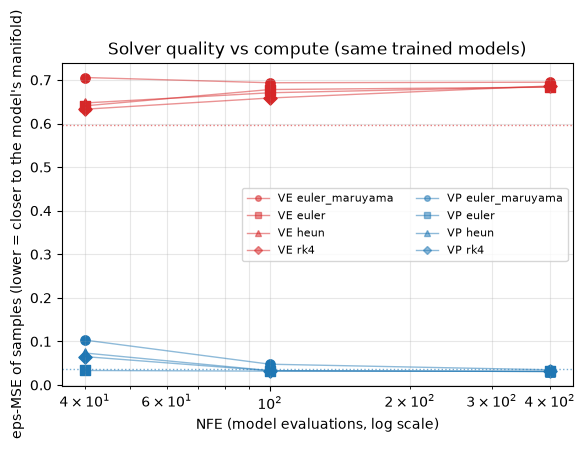
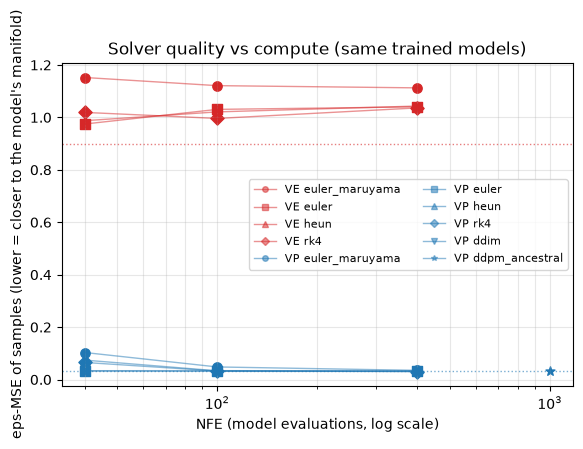
Lesson 02: DDIM sampler + DDPM/DDIM vs continuous solvers comparison
- sample_ddim (eta=0 default) in mnist_ve_vp.py: the discrete PF-ODE
  jump over a subsampled tau grid. First version had the prev-index
  off by direction (jumped toward *more* noise); fixed after tracing
  |x| along the chain.
- compare_solvers.py: adds ddpm_ancestral (full T=1000, one run) and
  ddim (steps = NFE budget) as VP-only methods, and prefers the
  long-trained VE checkpoint.
- Headline numbers (GPU): DDPM 1000 NFE = 16.3s, DDIM 40 = 0.64s with
  equal eps-MSE (0.032 vs 0.034) — the 25x DDIM speedup, and DDIM
  matches Euler-on-PF-ODE as theory says. VE honestly needs ~1400 NFE
  (its Euler+Langevin sampler), documented in README.

diff --git a/lessons/02-score-matching/lab/scripts/compare_solvers.py b/lessons/02-score-matching/lab/scripts/compare_solvers.py
@@ -22,7 +22,9 @@ from __future__ import annotations
 
 import csv
 import sys
+import time as _time
 from pathlib import Path
+from types import SimpleNamespace
 
 import matplotlib
 
@@ -40,6 +42,8 @@ from score_lab.mnist_ve_vp import (
     MNIST_STD,
     VESchedule,
     VPSchedule,
+    sample_ddim,
+    sample_vp,
     save_sample_grid,
 )
 from score_lab.sde import ContinuousVE, ContinuousVP
@@ -47,6 +51,9 @@ from score_lab.solvers import euler_maruyama, nfe_to_grid, ode_solver
 
 SDE_METHODS = ["euler_maruyama"]
 ODE_METHODS = ["euler", "heun", "rk4"]
+# Discrete lesson-01 samplers, for the wall-clock comparison with the
+# continuous solvers. Both only make sense on the VP schedule.
+DISCRETE_VP_METHODS = ["ddim", "ddpm_ancestral"]
 
 
 def _unnormalize(x: torch.Tensor) -> torch.Tensor:
@@ -111,15 +118,21 @@ def main() -> None:
     }
     models = {}
     for name in branches:
+        # prefer the long-trained VE checkpoint if the ve-vp run produced one
+        ckpt = f"model_{name}_long.pt" if name == "ve" and \
+            (ve_vp_dir / "model_ve_long.pt").exists() else f"model_{name}.pt"
         m = build_mnist_unet(cfg).to(device).eval()
-        m.load_state_dict(torch.load(ve_vp_dir / f"model_{name}.pt",
-                                     map_location=device, weights_only=True))
+        m.load_state_dict(torch.load(ve_vp_dir / ckpt, map_location=device,
+                                     weights_only=True))
+        print(f"  {name}: checkpoint {ckpt}")
         models[name] = m
 
     n = int(section.n_samples)
     seed = int(section.seed)
     budgets = [int(b) for b in section.nfe_budgets]
-    methods = SDE_METHODS + ODE_METHODS if bool(section.include_rk4) else SDE_METHODS + ["euler", "heun"]
+    solver_methods = ODE_METHODS if bool(section.include_rk4) else ["euler", "heun"]
+    methods = {"ve": SDE_METHODS + solver_methods,
+               "vp": SDE_METHODS + solver_methods + DISCRETE_VP_METHODS}
 
     # warm up CUDA kernels so the first timed run is not an outlier
     dummy = branches["ve"].prior_sample((2, 1, 28, 28), device=device)
@@ -148,13 +161,34 @@ def main() -> None:
         # same starting cloud for every method of this branch
         gen = torch.Generator(device=device).manual_seed(seed)
         x_start = branch.prior_sample((n, 1, 28, 28), generator=gen, device=device)
-        for method in methods:
-            for budget in budgets:
-                grid = nfe_to_grid(budget, "euler" if method == "euler_maruyama" else method,
-                                   torch.device(device))
+        for method in methods[branch_name]:
+            # ddpm_ancestral is a single full-T run; budgets don't apply
+            method_budgets = [None] if method == "ddpm_ancestral" else budgets
+            for budget in method_budgets:
+                if method in DISCRETE_VP_METHODS:
+                    grid = None
+                else:
+                    grid = nfe_to_grid(budget, "euler" if method == "euler_maruyama" else method,
+                                       torch.device(device))
                 gen_run = torch.Generator(device=device).manual_seed(seed + 1)
                 with torch.no_grad():
-                    if method == "euler_maruyama":
+                    if method == "ddim":
+                        t0 = _time.perf_counter()
+                        x = sample_ddim(model, vp_sched, (n, 1, 28, 28), n_steps=budget,
+                                        generator=gen_run, device=device)
+                        if device.startswith("cuda"):
+                            torch.cuda.synchronize()
+                        res = SimpleNamespace(x=x, nfe=budget,
+                                              seconds=_time.perf_counter() - t0)
+                    elif method == "ddpm_ancestral":
+                        t0 = _time.perf_counter()
+                        x = sample_vp(model, vp_sched, (n, 1, 28, 28),
+                                      generator=gen_run, device=device)
+                        if device.startswith("cuda"):
+                            torch.cuda.synchronize()
+                        res = SimpleNamespace(x=x, nfe=vp_sched.num_timesteps,
+                                              seconds=_time.perf_counter() - t0)
+                    elif method == "euler_maruyama":
                         drift = lambda x, t, b=branch, m=model: b.reverse_sde_drift(m, x, t)
                         res = euler_maruyama(drift, branch.diffusion, x_start.clone(),
                                              grid, generator=gen_run)
@@ -164,8 +198,9 @@ def main() -> None:
                 diverged = bool(torch.isnan(res.x).any() or torch.isinf(res.x).any())
                 if diverged:
                     res.x = torch.nan_to_num(res.x, nan=0.0, posinf=1.0, neginf=-1.0)
+                steps = 0 if method in ("ddim", "ddpm_ancestral") else len(grid) - 1
                 row = {
-                    "method": method, "branch": branch_name, "steps": len(grid) - 1,
+                    "method": method, "branch": branch_name, "steps": steps,
                     "nfe": res.nfe, "seconds": round(res.seconds, 4),
                     "sharpness": round(sharpness(res.x), 5),
                     "speckle": round(speckle(res.x), 5),
@@ -174,16 +209,17 @@ def main() -> None:
                 }
                 rows.append(row)
                 samples[(branch_name, method, budget)] = res.x
-                tag = f"{branch_name}_{method}_nfe{budget}"
+                tag = f"{branch_name}_{method}_nfe{res.nfe}"
                 save_sample_grid(res.x, out_dir / f"{tag}.png",
                                  f"{tag}  ({res.nfe} NFE, {res.seconds:.2f}s)")
                 print(f"  {tag}: nfe={res.nfe} t={res.seconds:.2f}s "
                       f"sharp={row['sharpness']} eps_mse={row['eps_mse']} div={row['diverged']}")
 
         # --- Montage: rows = methods, cols = NFE budgets (same start noise) ---
-        fig, axes = plt.subplots(len(methods), len(budgets),
-                                 figsize=(2.6 * len(budgets), 2.5 * len(methods)))
-        for r, method in enumerate(methods):
+        montage_methods = [m for m in methods[branch_name] if m != "ddpm_ancestral"]
+        fig, axes = plt.subplots(len(montage_methods), len(budgets),
+                                 figsize=(2.6 * len(budgets), 2.5 * len(montage_methods)))
+        for r, method in enumerate(montage_methods):
             for c, budget in enumerate(budgets):
                 ax = axes[r, c] if len(methods) > 1 else axes[c]
                 x = samples[(branch_name, method, budget)][:16].detach().cpu()
@@ -209,7 +245,8 @@ def main() -> None:
     # --- quality vs NFE -------------------------------------------------------
     fig, ax = plt.subplots(figsize=(6.6, 4.2))
     colors = {"ve": "#d62728", "vp": "#1f77b4"}
-    markers = {"euler_maruyama": "o", "euler": "s", "heun": "^", "rk4": "D"}
+    markers = {"euler_maruyama": "o", "euler": "s", "heun": "^", "rk4": "D",
+               "ddim": "v", "ddpm_ancestral": "*"}
     for row in rows:
         if row["diverged"] or row["method"] == "real_data":
             continue

diff --git a/lessons/02-score-matching/lab/src/score_lab/mnist_ve_vp.py b/lessons/02-score-matching/lab/src/score_lab/mnist_ve_vp.py
@@ -179,6 +179,39 @@ def sample_vp(
 
 
 @torch.no_grad()
+def sample_ddim(
+    model, schedule: VPSchedule, shape, n_steps: int = 100, eta: float = 0.0,
+    generator=None, device="cpu",
+) -> torch.Tensor:
+    """DDIM (η=0 default): the classical discrete form of the VP PF-ODE.
+
+    Subsamples ``n_steps`` timesteps from the schedule and jumps directly
+    between them: ``x_{τ₋₁} = √ᾱ_{τ₋₁}·(x_τ − √(1−ᾱ_τ)·ε̂)/√ᾱ_τ +
+    √(1−ᾱ_{τ₋₁})·ε̂`` (+ η-scaled noise for η > 0). With η = 0 the map is
+    deterministic — same role as the ODE solvers in ``solvers.py``, but
+    derived from the discrete posterior instead of integrating the ODE.
+    NFE = n_steps.
+    """
+    model.eval()
+    ab = schedule.alphas_cumprod.to(device).float()
+    tau = torch.linspace(schedule.num_timesteps - 1, 0, n_steps).long()
+    x = torch.randn(shape, generator=generator, device=device)
+    for i in range(len(tau)):  # tau itself already runs T-1 → 0
+        tb = torch.full((shape[0],), tau[i], device=device, dtype=torch.long)
+        eps = model(x, tb)
+        ab_t = ab[tau[i]]
+        ab_prev = ab[tau[i + 1]] if i + 1 < len(tau) else torch.ones((), device=device)
+        x0_hat = (x - (1 - ab_t).sqrt() * eps) / ab_t.sqrt().clamp_min(1e-8)
+        dir = (1 - ab_prev).clamp_min(0).sqrt() * eps
+        x = ab_prev.sqrt() * x0_hat + dir
+        if eta > 0 and i > 0:
+            sigma = eta * ((1 - ab_prev) / (1 - ab_t).clamp_min(1e-8)).sqrt() \
+                * (1 - ab_t / ab_prev).sqrt()
+            x = x + sigma * torch.randn(shape, generator=generator, device=device)
+    return x
+
+
+@torch.no_grad()
 def sample_ve(
     model, schedule: VESchedule, shape, generator=None, device="cpu",
     euler_sub: int = 5, corrector_steps: int = 10, corrector_scale: float = 0.15,

diff --git a/lessons/02-score-matching/lab/README.md b/lessons/02-score-matching/lab/README.md
@@ -142,6 +142,28 @@ uv run python scripts/compare_solvers.py  # → runs/ve_vs_vp/solvers/
 * Сетки сэмплов по каждому прогону — в `solvers/<ветка>_<метод>_nfe<N>.png`;
   полный протокол с временем — `solvers/solver_benchmark.csv`.
 
+### Сравнение с классикой: DDPM и DDIM
+
+В бенчмарк включены два дискретных сэмплера урока 1 (только VP):
+
+| Метод | NFE | Время (GPU) | eps-MSE |
+|---|---|---|---|
+| DDPM ancestral (полный T) | 1000 | ~16.3 с | 0.032 |
+| **DDIM (η=0), 40 шагов** | **40** | **~0.64 с** | **0.034** |
+| Euler на PF-ODE | 40 | ~0.67 с | 0.032 |
+
+Две классические морали на одних числах: **(1)** DDIM и Euler на PF-ODE —
+это одно и то же в разных одеждах (дискретный прыжок по x̂₀ vs интегрирование
+ODE) — качества совпадают с точностью до погрешности; **(2)** детерминированная
+траектория даёт **25× ускорение** при равном качестве: 40 вызовов сети вместо
+1000. Антисемплинг не бесплатен у stochastic-ветки: Euler-Maruyama требует
+~400 NFE, чтобы догнать DDPM по качеству.
+
+VE в этой таблице нет сознательно: его ε-модель при NFE ≤ 400 даёт шум
+(запись в CSV есть) — честному VE-сэмплеру лабы (Euler + Ланжевен-корректор)
+нужно ~1400 NFE. Это ещё одна грань «VE дешевле только при preconditioning»
+из раздела выше.
+
 ### Ограничения
 
 * eps-MSE — **внутренняя** метрика (модель оценивает свои сэмплы):
